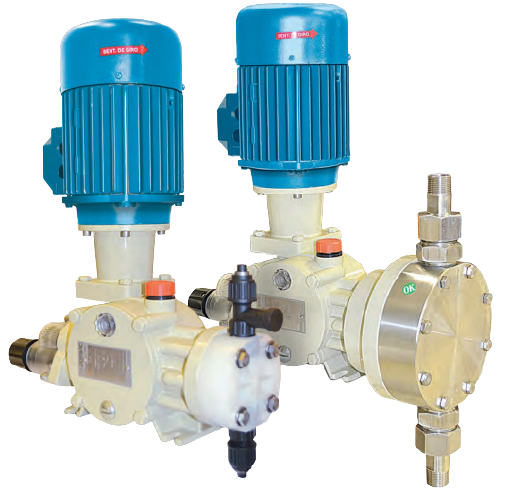
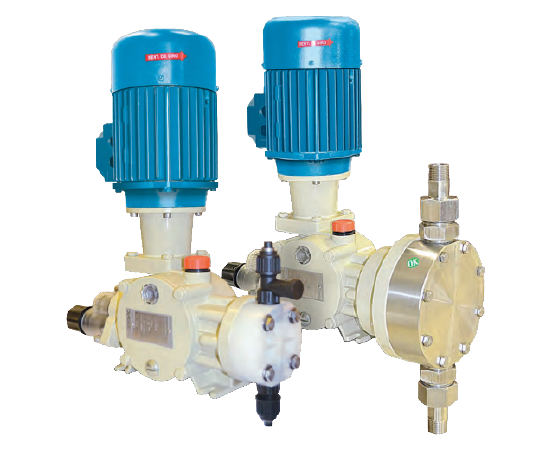
correccion en tamaño de img seccion dosif

diff --git a/paginas/subproductos/productos_dosificacion.html b/paginas/subproductos/productos_dosificacion.html
@@ -94,7 +94,7 @@
     <article class="col-3 catalogo__producto1 border border-warning rounded" id="trans--producto">
         <h5>EMD</h5>
         <div class="catalogo__image--tamaño">
-          <img src="../../img/bombas/emd-removebg-preview.png" class="w-100" alt="">
+          <img src="../../img/bombas/EMD-removebg-preview.png" class="w-100" alt="">
         </div>
         <span>NUEVA BOMBA ELECTROMAGNETICA MUCHO MAS EFICIENTE PARA CLORINACION Y CONTROL</span>
         <div class="contenido__desplegable">
@@ -124,7 +124,7 @@
   
     <article class="col-3 catalogo__producto1 border border-warning rounded" id="trans--producto">
         <h5>EMD PLUS</h5>
-        <div class="catalogo__image--tamaño"><img src="../../img/bombas/EMD-plus__1_-removebg-preview.png" class="w-100" alt=""></div>
+        <div class="catalogo__image--tamaño"><img src="../../img/bombas/EMD-PLUS-removebg-preview.png" class="w-100" alt=""></div>
         <span>VERSION ELECTROMAGNETICA CON ENTRADA DE SEÑAL 4-20mah AUTOMATICA </span>
         <div class="contenido__desplegable">
           <p>
@@ -153,7 +153,7 @@
   
       <article class="col-3 catalogo__producto1 border border-warning rounded" id="trans--producto">
         <h5>MILENIO</h5>
-        <div class="catalogo__image--tamaño"><img src="../../img/bombas/Milenio2018-removebg-preview.png" class="w-100"></div>
+        <div class="catalogo__image--tamaño"><img src="../../img/bombas/mielnio-removebg-preview.png" class="w-100"></div>
         <span>BOMBA TRADICIONAL DE ACCIONAMIENTO POSITIVO A DIAFRAGMA</span>
         <div class="contenido__desplegable">
           <p>
@@ -243,7 +243,7 @@
 
       <article class="col-3 catalogo__producto1 border border-warning rounded" id="trans--producto">
         <h5>DEON / DEON-AP</h5>
-        <div class="catalogo__image--tamaño"><img src="../../img/bombas/DEON_DEONAP.png" class="w-100" alt=""></div>
+        <div class="catalogo__image--tamaño"><img src="../../img/bombas/DEON-DEON-AP-removebg-preview.png" class="w-100" alt=""></div>
         <span>PARA VENCER CONTRAPRESIONES DE HASTA 10KG TODO TIPO DE PRODUCTO QUIMICO</span>
         <div class="contenido__desplegable">
           <p>
@@ -271,7 +271,7 @@
 
       <article class="col-3 catalogo__producto1 border border-warning rounded" id="trans--producto">
         <h5>DEN</h5>
-        <div class="catalogo__image--tamaño"><img src="../../img/bombas/DEN.png" class="w-100" alt=""></div>
+        <div class="catalogo__image--tamaño"><img src="../../img/bombas/DEN-removebg-preview.png" class="w-100" alt=""></div>
         <span>PARA VENCER CONTRAPRESIONES DE HASTA 10KG TODO TIPO DE PRODUCTO QUIMICO</span>
         <div class="contenido__desplegable">
           <p>
@@ -302,7 +302,7 @@
   <section class="catalogo row">
     <article class="col-3 catalogo__producto1 border border-warning rounded" id="trans--producto">
     <h5>DECI</h5>
-      <div class="catalogo__image--tamaño"><img src="../../img/bombas/DECI.png" class="w-100" alt=""></div>
+      <div class="catalogo__image--tamaño"><img src="../../img/bombas/DECI-removebg-preview.png" class="w-100" alt=""></div>
       <span>PARA TODO TIPO DE CONTRAPRESION POR ENCIMA DE 10KG cm3</span>
       <div class="contenido__desplegable">
         <p>
@@ -330,7 +330,7 @@
 
     <article class="col-3 catalogo__producto1 border border-warning rounded" id="trans--producto">
       <h5>DE</h5>
-      <div class="catalogo__image--tamaño"><img src="../../img/bombas/DE.png" class="w-100" alt=""></div>
+      <div class="catalogo__image--tamaño"><img src="../../img/bombas/DE-removebg-preview.png" class="w-100" alt=""></div>
       <span>PARA VENCER CONTRAPRESIONES DE HASTA 10KG TODO TIPO DE PRODUCTO QUIMICO</span>
       <div class="contenido__desplegable">
         <p>

diff --git a/css/estilo.css b/css/estilo.css
@@ -375,9 +375,6 @@ section article {
     -webkit-box-align: stretch;
         -ms-flex-align: stretch;
             align-items: stretch;
-    background: #020024;
-    background: -webkit-gradient(linear, left top, right top, from(#020024), color-stop(0%, rgba(137, 82, 231, 0.611082)), color-stop(12%, #30e2dd), color-stop(100%, rgba(108, 240, 218, 0.367384)), to(#9dc4cc));
-    background: linear-gradient(90deg, #020024 0%, rgba(137, 82, 231, 0.611082) 0%, #30e2dd 12%, rgba(108, 240, 218, 0.367384) 100%, #9dc4cc 100%);
   }
 }
 
@@ -737,7 +734,6 @@ section article {
 div.catalogo__image--tamaño {
   width: 26.5rem;
   height: 22rem;
-  background-color: blue;
 }
 
 .catalogo__repuesto1 {

diff --git a/scss/_mq.scss b/scss/_mq.scss
@@ -37,8 +37,6 @@ nav li {
     display: flex;
     justify-content:flex-end;
     align-items: stretch;
-    background: rgb(2,0,36);
-    background: linear-gradient(90deg, rgba(2,0,36,1) 0%, rgba(137,82,231,0.6110819327731092) 0%, rgba(48,226,221,1) 12%, rgba(108,240,218,0.36738445378151263) 100%, rgba(157,196,204,1) 100%);
     }
 }
 @media all and (min-width:992px){

diff --git a/scss/_producto.scss b/scss/_producto.scss
@@ -15,8 +15,7 @@
 }
 div.catalogo__image--tamaño {    
     width: 26.5rem;
-    height: 22rem;   
-    background-color: blue;
+    height: 22rem; 
 }
 
 @for $i from 1 through 12 {  
